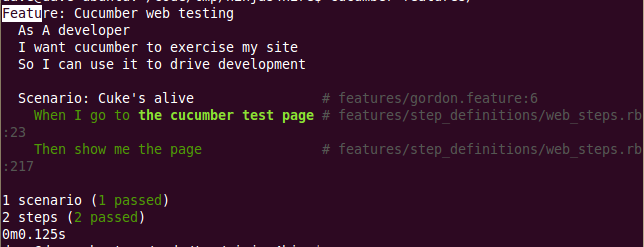
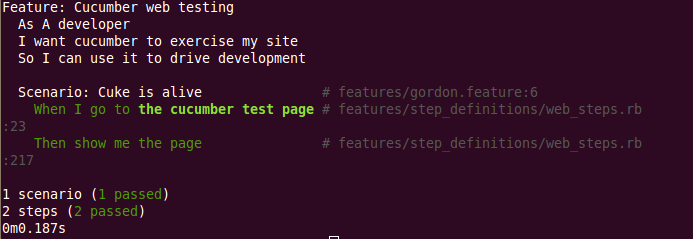
update images, sort out todos, add rake section to chp 8

diff --git a/src/ruby/ninjas4hire_chp8/features/step_definitions/web_steps.rb b/src/ruby/ninjas4hire_chp8/features/step_definitions/web_steps.rb
@@ -1,0 +1,219 @@
+# Taken from the cucumber-rails project.
+# IMPORTANT: This file is generated by cucumber-sinatra - edit at your own peril.
+# It is recommended to regenerate this file in the future when you upgrade to a
+# newer version of cucumber-sinatra. Consider adding your own code to a new file
+# instead of editing this one. Cucumber will automatically load all features/**/*.rb
+# files.
+
+require 'uri'
+require 'cgi'
+require File.expand_path(File.join(File.dirname(__FILE__), "..", "support", "paths"))
+
+module WithinHelpers
+  def with_scope(locator)
+    locator ? within(locator) { yield } : yield
+  end
+end
+World(WithinHelpers)
+
+Given /^(?:|I )am on (.+)$/ do |page_name|
+  visit path_to(page_name)
+end
+
+When /^(?:|I )go to (.+)$/ do |page_name|
+  visit path_to(page_name)
+end
+
+When /^(?:|I )press "([^\"]*)"(?: within "([^\"]*)")?$/ do |button, selector|
+  with_scope(selector) do
+    click_button(button)
+  end
+end
+
+When /^(?:|I )follow "([^\"]*)"(?: within "([^\"]*)")?$/ do |link, selector|
+  with_scope(selector) do
+    click_link(link)
+  end
+end
+
+When /^(?:|I )fill in "([^\"]*)" with "([^\"]*)"(?: within "([^\"]*)")?$/ do |field, value, selector|
+  with_scope(selector) do
+    fill_in(field, :with => value)
+  end
+end
+
+When /^(?:|I )fill in "([^\"]*)" for "([^\"]*)"(?: within "([^\"]*)")?$/ do |value, field, selector|
+  with_scope(selector) do
+    fill_in(field, :with => value)
+  end
+end
+
+# Use this to fill in an entire form with data from a table. Example:
+#
+#   When I fill in the following:
+#     | Account Number | 5002       |
+#     | Expiry date    | 2009-11-01 |
+#     | Note           | Nice guy   |
+#     | Wants Email?   |            |
+#
+# TODO: Add support for checkbox, select og option
+# based on naming conventions.
+#
+When /^(?:|I )fill in the following(?: within "([^\"]*)")?:$/ do |selector, fields|
+  with_scope(selector) do
+    fields.rows_hash.each do |name, value|
+      When %{I fill in "#{name}" with "#{value}"}
+    end
+  end
+end
+
+When /^(?:|I )select "([^\"]*)" from "([^\"]*)"(?: within "([^\"]*)")?$/ do |value, field, selector|
+  with_scope(selector) do
+    select(value, :from => field)
+  end
+end
+
+When /^(?:|I )check "([^\"]*)"(?: within "([^\"]*)")?$/ do |field, selector|
+  with_scope(selector) do
+    check(field)
+  end
+end
+
+When /^(?:|I )uncheck "([^\"]*)"(?: within "([^\"]*)")?$/ do |field, selector|
+  with_scope(selector) do
+    uncheck(field)
+  end
+end
+
+When /^(?:|I )choose "([^\"]*)"(?: within "([^\"]*)")?$/ do |field, selector|
+  with_scope(selector) do
+    choose(field)
+  end
+end
+
+When /^(?:|I )attach the file "([^\"]*)" to "([^\"]*)"(?: within "([^\"]*)")?$/ do |path, field, selector|
+  with_scope(selector) do
+    attach_file(field, path)
+  end
+end
+
+Then /^(?:|I )should see JSON:$/ do |expected_json|
+  require 'json'
+  expected = JSON.pretty_generate(JSON.parse(expected_json))
+  actual   = JSON.pretty_generate(JSON.parse(response.body))
+  expected.should == actual
+end
+
+Then /^(?:|I )should see "([^\"]*)"(?: within "([^\"]*)")?$/ do |text, selector|
+  with_scope(selector) do
+    if page.respond_to? :should
+      page.should have_content(text)
+    else
+      assert page.has_content?(text)
+    end
+  end
+end
+
+Then /^(?:|I )should see \/([^\/]*)\/(?: within "([^\"]*)")?$/ do |regexp, selector|
+  regexp = Regexp.new(regexp)
+  with_scope(selector) do
+    if page.respond_to? :should
+      page.should have_xpath('//*', :text => regexp)
+    else
+      assert page.has_xpath?('//*', :text => regexp)
+    end
+  end
+end
+
+Then /^(?:|I )should not see "([^\"]*)"(?: within "([^\"]*)")?$/ do |text, selector|
+  with_scope(selector) do
+    if page.respond_to? :should
+      page.should have_no_content(text)
+    else
+      assert page.has_no_content?(text)
+    end
+  end
+end
+
+Then /^(?:|I )should not see \/([^\/]*)\/(?: within "([^\"]*)")?$/ do |regexp, selector|
+  regexp = Regexp.new(regexp)
+  with_scope(selector) do
+    if page.respond_to? :should
+      page.should have_no_xpath('//*', :text => regexp)
+    else
+      assert page.has_no_xpath?('//*', :text => regexp)
+    end
+  end
+end
+
+Then /^the "([^\"]*)" field(?: within "([^\"]*)")? should contain "([^\"]*)"$/ do |field, selector, value|
+  with_scope(selector) do
+    field = find_field(field)
+    field_value = (field.tag_name == 'textarea') ? field.text : field.value
+    if field_value.respond_to? :should
+      field_value.should =~ /#{value}/
+    else
+      assert_match(/#{value}/, field_value)
+    end
+  end
+end
+
+Then /^the "([^\"]*)" field(?: within "([^\"]*)")? should not contain "([^\"]*)"$/ do |field, selector, value|
+  with_scope(selector) do
+    field = find_field(field)
+    field_value = (field.tag_name == 'textarea') ? field.text : field.value
+    if field_value.respond_to? :should_not
+      field_value.should_not =~ /#{value}/
+    else
+      assert_no_match(/#{value}/, field_value)
+    end
+  end
+end
+
+Then /^the "([^\"]*)" checkbox(?: within "([^\"]*)")? should be checked$/ do |label, selector|
+  with_scope(selector) do
+    field_checked = find_field(label)['checked']
+    if field_checked.respond_to? :should
+      field_checked.should == 'checked'
+    else
+      assert_equal 'checked', field_checked
+    end
+  end
+end
+
+Then /^the "([^\"]*)" checkbox(?: within "([^\"]*)")? should not be checked$/ do |label, selector|
+  with_scope(selector) do
+    field_checked = find_field(label)['checked']
+    if field_checked.respond_to? :should_not
+      field_checked.should_not == 'checked'
+    else
+      assert_not_equal 'checked', field_checked
+    end
+  end
+end
+
+Then /^(?:|I )should be on (.+)$/ do |page_name|
+  current_path = URI.parse(current_url).path
+  if current_path.respond_to? :should
+    current_path.should == path_to(page_name)
+  else
+    assert_equal path_to(page_name), current_path
+  end
+end
+
+Then /^(?:|I )should have the following query string:$/ do |expected_pairs|
+  query = URI.parse(current_url).query
+  actual_params = query ? CGI.parse(query) : {}
+  expected_params = {}
+  expected_pairs.rows_hash.each_pair{|k,v| expected_params[k] = v.split(',')}
+
+  if actual_params.respond_to? :should
+    actual_params.should == expected_params
+  else
+    assert_equal expected_params, actual_params
+  end
+end
+
+Then /^show me the page$/ do
+  save_and_open_page
+end

diff --git a/src/ruby/ninjas4hire_chp8/features/support/paths.rb b/src/ruby/ninjas4hire_chp8/features/support/paths.rb
@@ -1,0 +1,30 @@
+# Taken from the cucumber-rails project.
+
+module NavigationHelpers
+  # Maps a name to a path. Used by the
+  #
+  #   When /^I go to (.+)$/ do |page_name|
+  #
+  # step definition in web_steps.rb
+  #
+  def path_to(page_name)
+    case page_name
+
+    when /the home\s?page/
+      '/'
+
+    # Add more mappings here.
+    # Here is an example that pulls values out of the Regexp:
+    #
+    #   when /^(.*)'s profile page$/i
+    #     user_profile_path(User.find_by_login($1))
+    when /^the cucumber test page$/
+      '/cukeTest'
+    else
+      raise "Can't find mapping from \"#{page_name}\" to a path.\n" +
+        "Now, go and add a mapping in #{__FILE__}"
+    end
+  end
+end
+
+World(NavigationHelpers)

diff --git a/src/ruby/ninjas4hire_chp8/features/support/env.rb b/src/ruby/ninjas4hire_chp8/features/support/env.rb
@@ -1,0 +1,21 @@
+# Generated by cucumber-sinatra. (Tue Nov 23 21:41:31 +0000 2010)
+
+ENV['RACK_ENV'] = 'test'
+
+require File.join(File.dirname(__FILE__), '..', '..', 'src/ninjas4hire_app.rb')
+
+require 'capybara'
+require 'capybara/cucumber'
+require 'rspec'
+
+Capybara.app = Ninjas4HireApp
+
+class Ninjas4HireAppWorld
+  include Capybara
+  include RSpec::Expectations
+  include RSpec::Matchers
+end
+
+World do
+  Ninjas4HireAppWorld.new
+end

diff --git a/src/ruby/ninjas4hire_chp8/src/ninjas4hire_app.rb b/src/ruby/ninjas4hire_chp8/src/ninjas4hire_app.rb
@@ -1,0 +1,8 @@
+require 'rubygems'
+require 'sinatra/base'
+class Ninjas4HireApp < Sinatra::Base
+	get '/cukeTest' do
+		"up"
+	end
+end
+
